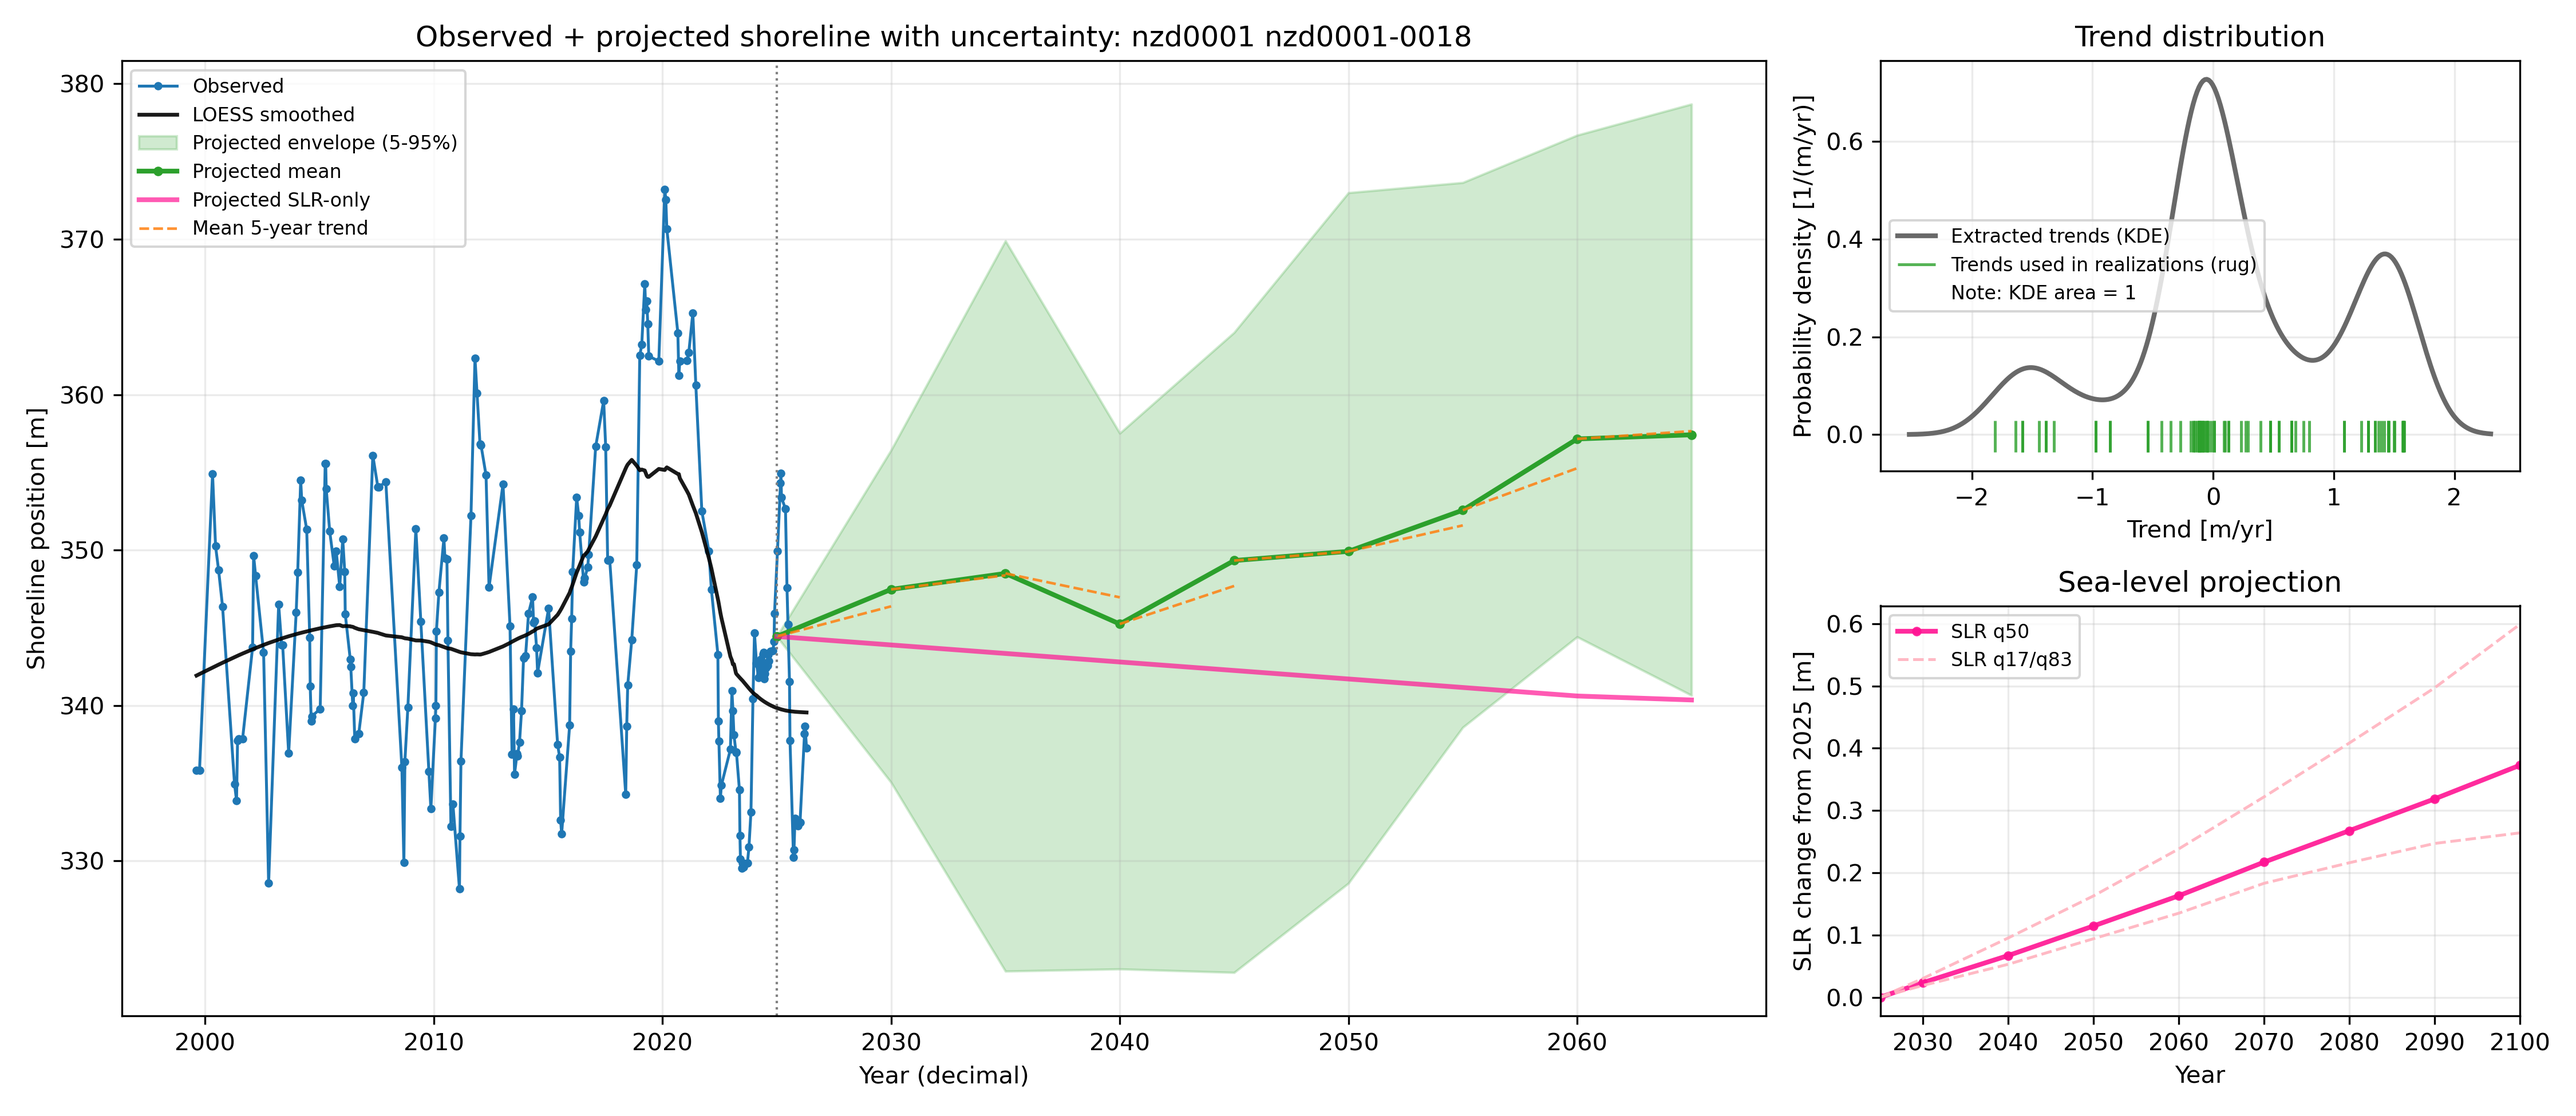
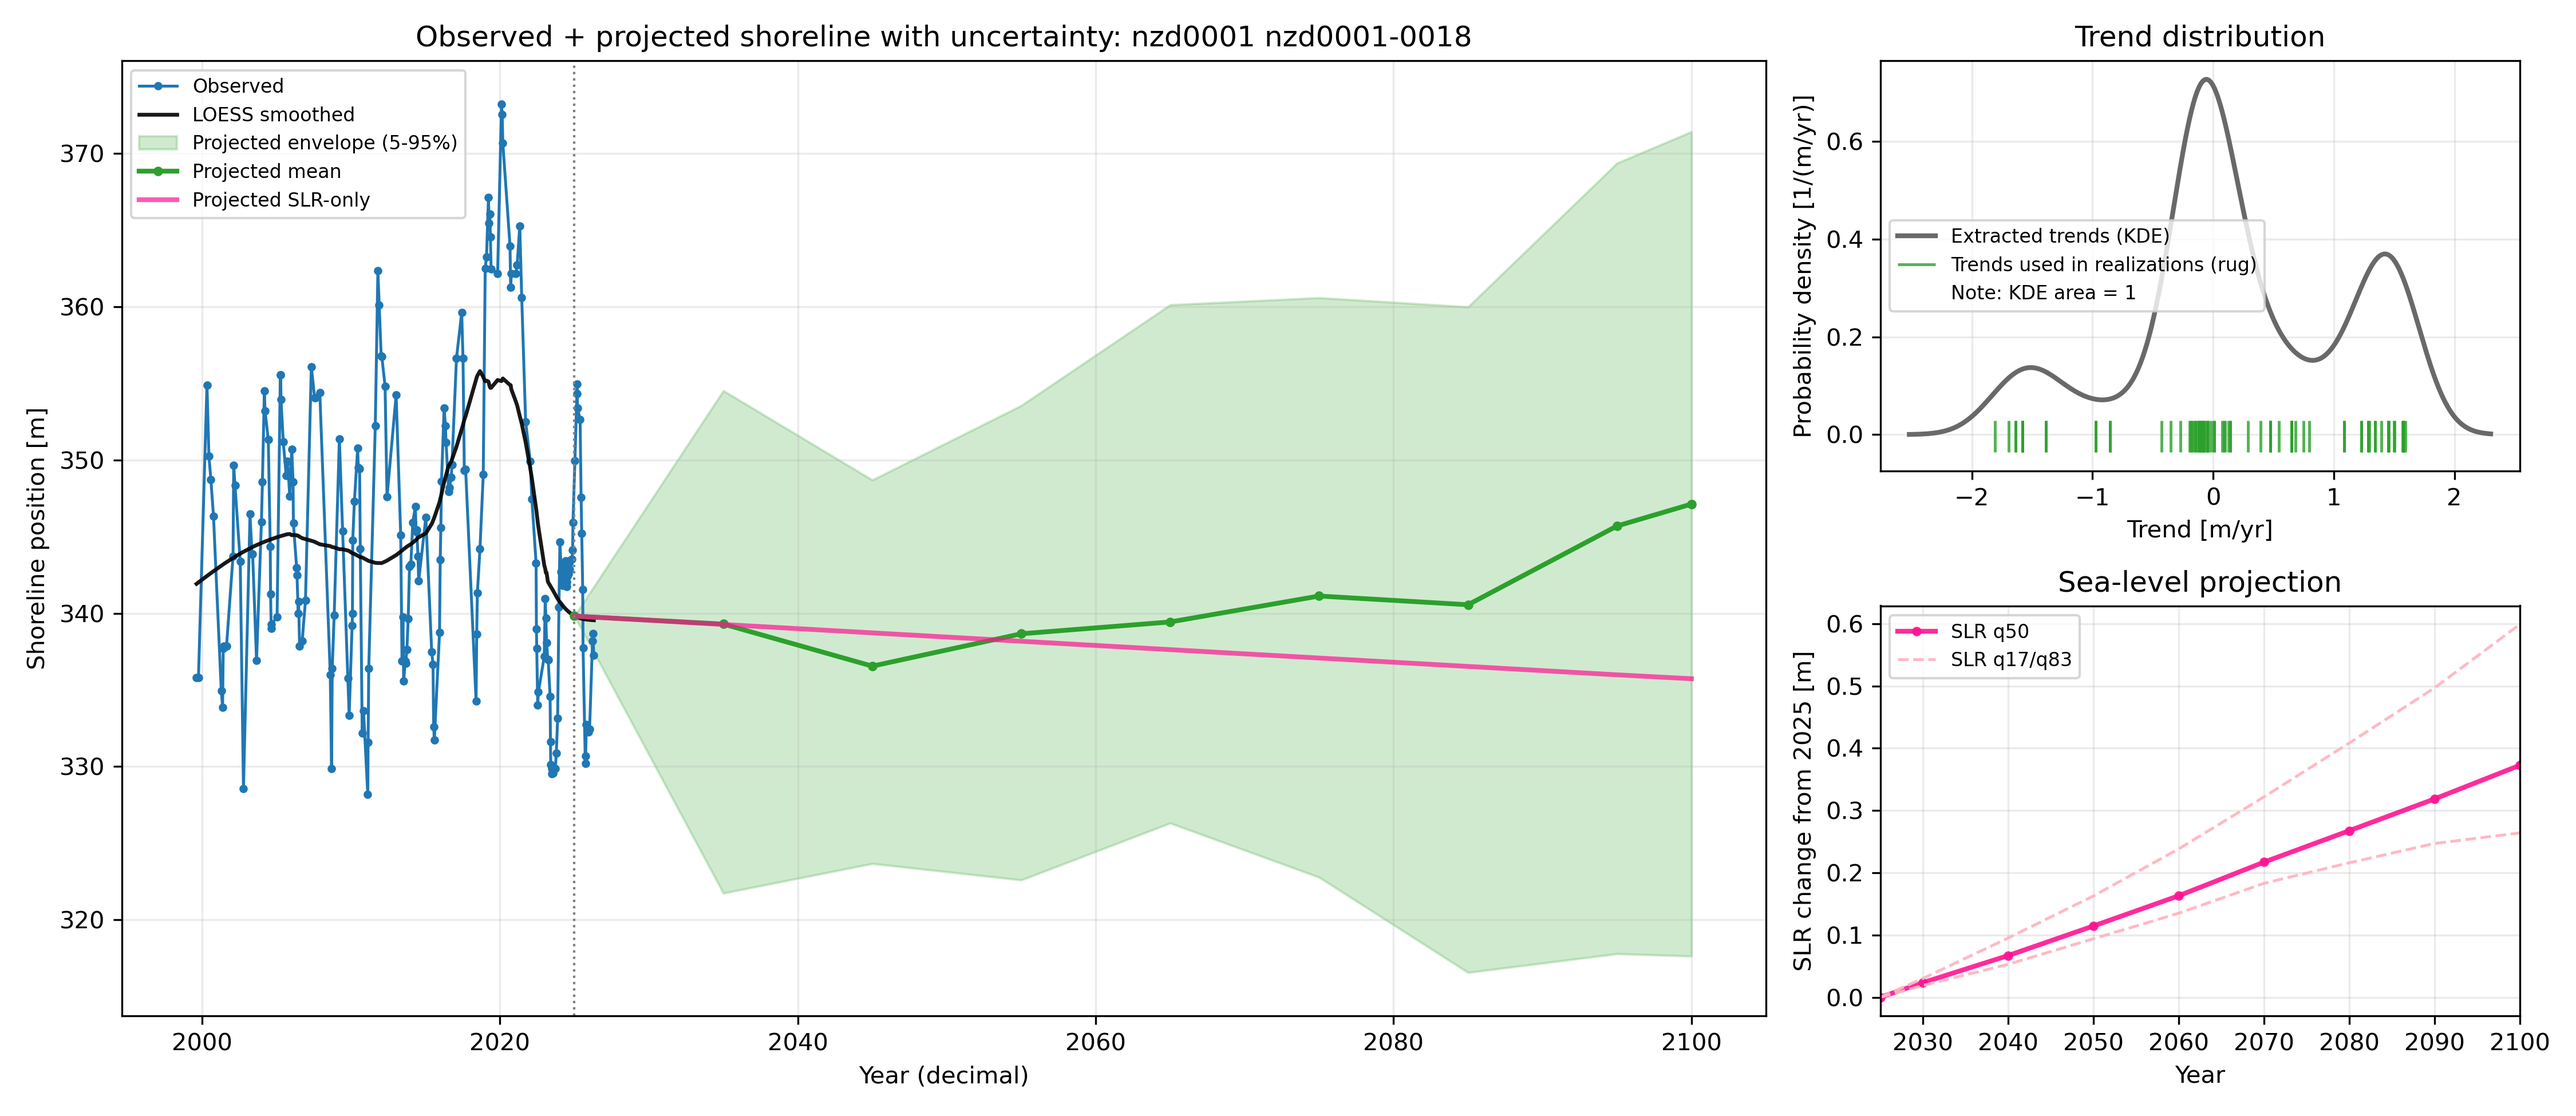
Homogeneizing time windows, removed p factor
Removed p factor from projections, shifted projection starting point to last LOESS curve.

diff --git a/trend_uncertainty.py b/trend_uncertainty.py
@@ -34,7 +34,9 @@ print(f"{len(nzd_sites)} NZD sites found")
 seed = 42 
 single_preview_random_state = seed
 n_mc_realizations_per_transect = 10
-loess_window = 10 
+loess_window = 10  # years, used for both LOESS smoothing 
+#and block bootstrap window to match the timescale 
+# of variability captured by the smoothed trend.
 
 
 #%% Download data for a given site, and convert to decimal years. Function DEFINITION
@@ -257,7 +259,6 @@ def block_bootstrap_slopes(
 def mc_shoreline_change(
     c, tan_beta, delta_S,
     r_samples,
-    p_low, p_high,
     segment_years,
     random_state,   
     delta_S_q17,
@@ -343,7 +344,7 @@ def mc_shoreline_change(
     sampled_tan_beta = rng.uniform(low=tan_beta * 0.8, high=tan_beta * 1.2, size=n)
 
     bases = -(c / sampled_tan_beta) * sampled_delta_s         # total SLR term (n,): SLR drives retreat (negative y)
-    sampled_p = rng.uniform(low=p_low, high=p_high, size=n)
+
 
     # Split dt into block-year segments; each gets its own independently sampled r.
     # e.g. dt=75 => 15 segments of block_years each.
@@ -359,13 +360,13 @@ def mc_shoreline_change(
 
     # dy has shape (n, n_segments): change during each block-year simulation
     dy = (bases_per_seg[:, np.newaxis] 
-          + sampled_p[:, np.newaxis] * sampled_r_segs * segment_years)
+          + sampled_r_segs * segment_years)
 
 
     if remainder > 0:
         sampled_r_rem = rng.choice(r_samples, size=n)
         sampled_r_all = np.concatenate([sampled_r_all, sampled_r_rem[:, np.newaxis]], axis=1)
-        dy_rem = (bases * remainder / dt) + sampled_p * sampled_r_rem * remainder
+        dy_rem = (bases * remainder / dt) + sampled_r_rem * remainder
         dy = np.concatenate([dy, dy_rem[:, np.newaxis]], axis=1)
 
     # SLR-only shoreline change per segment, shape-matched with dy.
@@ -381,9 +382,9 @@ def mc_shoreline_change(
         "dt_years": dt,
         "base_term_m": float(np.mean(bases)),  # mean of sampled bases
 
-        "p_mean": float(np.mean(sampled_p)),
-        "p_p05": p_low,  # since uniform
-        "p_p95": p_high,
+        # "p_mean": float(np.mean(sampled_p)),
+        # "p_p05": p_low,  # since uniform
+        # "p_p95": p_high,
 
         "slr_sampling": "gaussian_q17_q50_q83" if use_slr_gaussian else "deterministic",
         "delta_S_mean_m": float(np.mean(sampled_delta_s)),
@@ -723,8 +724,6 @@ for site_id in nzd_sites_trial:
             tan_beta=tan_beta ,
             delta_S=delta_s_q50,
             r_samples = boot_slopes,
-            p_low=0.9,
-            p_high=1,
             segment_years= loess_window,  # Match the LOESS window for consistency
             random_state=single_preview_random_state,
             delta_S_q17=delta_s_q17,
@@ -766,7 +765,8 @@ for site_id in nzd_sites_trial:
         preview_r_samples = np.asarray(sampled_r_all, dtype=float)
         preview_slr_only_dy = np.asarray(sampled_slr_dy, dtype=float)
 
-        preview_segment_years = 5
+        preview_segment_years = loess_window  # Match the Monte Carlo 
+        # segment length to the LOESS window for interpretability
         preview_dt = int(summ["dt_years"])
 
         if preview_r_samples.shape != preview_dy.shape:

diff --git a/viz.py b/viz.py
@@ -113,23 +113,15 @@ def plot_observed_and_projected_single_run(
     seg_starts = projection_start_year + np.concatenate(([0.0], np.cumsum(seg_durations)[:-1]))
     seg_ends = seg_starts + seg_durations
 
-    # Anchor projections at the trailing 5-year mean of the LOESS curve.
-    # If LOESS is unavailable in that window, fall back to observed values.
-    baseline_window_years = 5.0
-    window_start = projection_start_year - baseline_window_years
+    # Anchor projections at the last point of the LOESS curve.
+    # If LOESS is unavailable, fall back to observed values.
 
     baseline_source_t = t_loess if (t_loess is not None and t_loess.size > 0) else t_obs
     baseline_source_y = y_loess if (y_loess is not None and y_loess.size > 0) else y_obs
 
-    baseline_mask = (
-        (baseline_source_t >= window_start)
-        & (baseline_source_t <= projection_start_year)
-    )
-    if np.any(baseline_mask):
-        baseline_y = float(np.mean(baseline_source_y[baseline_mask]))
-    else:
-        baseline_idx = int(np.argmin(np.abs(baseline_source_t - projection_start_year)))
-        baseline_y = float(baseline_source_y[baseline_idx])
+
+    baseline_idx = int(np.argmin(np.abs(baseline_source_t - projection_start_year)))
+    baseline_y = float(baseline_source_y[baseline_idx])
 
     cum_dy = np.cumsum(dy_matrix, axis=1)
     proj_years = np.concatenate(([projection_start_year], seg_ends))
@@ -213,23 +205,23 @@ def plot_observed_and_projected_single_run(
             label="Projected SLR-only",
         )
 
-    first_label = True
-    for i in range(n_segments):
-        x0 = seg_starts[i]
-        x1 = seg_ends[i]
-        y0 = seg_start_shoreline[i]
-        y1 = y0 + r_mean[i] * seg_durations[i]
+    # first_label = True
+    # for i in range(n_segments):
+    #     x0 = seg_starts[i]
+    #     x1 = seg_ends[i]
+    #     y0 = seg_start_shoreline[i]
+    #     y1 = y0 + r_mean[i] * seg_durations[i]
 
-        ax.plot(
-            [x0, x1],
-            [y0, y1],
-            linestyle="--",
-            color="tab:orange",
-            linewidth=1.1,
-            alpha=0.85,
-            label="Mean 5-year trend" if first_label else None,
-        )
-        first_label = False
+    #     ax.plot(
+    #         [x0, x1],
+    #         [y0, y1],
+    #         linestyle="--",
+    #         color="tab:orange",
+    #         linewidth=1.1,
+    #         alpha=0.85,
+    #         label="Mean 5-year trend" if first_label else None,
+    #     )
+    #     first_label = False
 
     if slr_years.size > 0:
         slr_order = np.argsort(slr_years)
